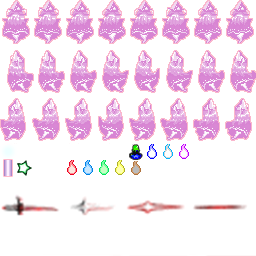
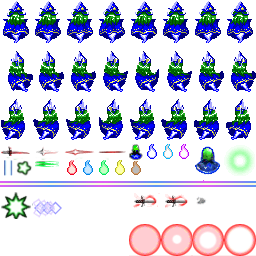
Minor Sprite Error for TD Mima fixed

diff --git a/mima/files.js b/mima/files.js
@@ -1,7 +1,7 @@
 {
 	"patch.js": 3351110907,
-	"th13/player/pl01/Thumbs.db": 2993404170,
-	"th13/player/pl01/pl01.png": 1022071736,
+	"th13/player/pl01/Thumbs.db": 346066539,
+	"th13/player/pl01/pl01.png": 2423680489,
 	"th13/player/pl01/pl01b.png": 1481901219,
 	"th13/player/pl01/pl01b2.png": 267757438,
 	"th13/player/pl01/pl01d.png": 1347484798,
